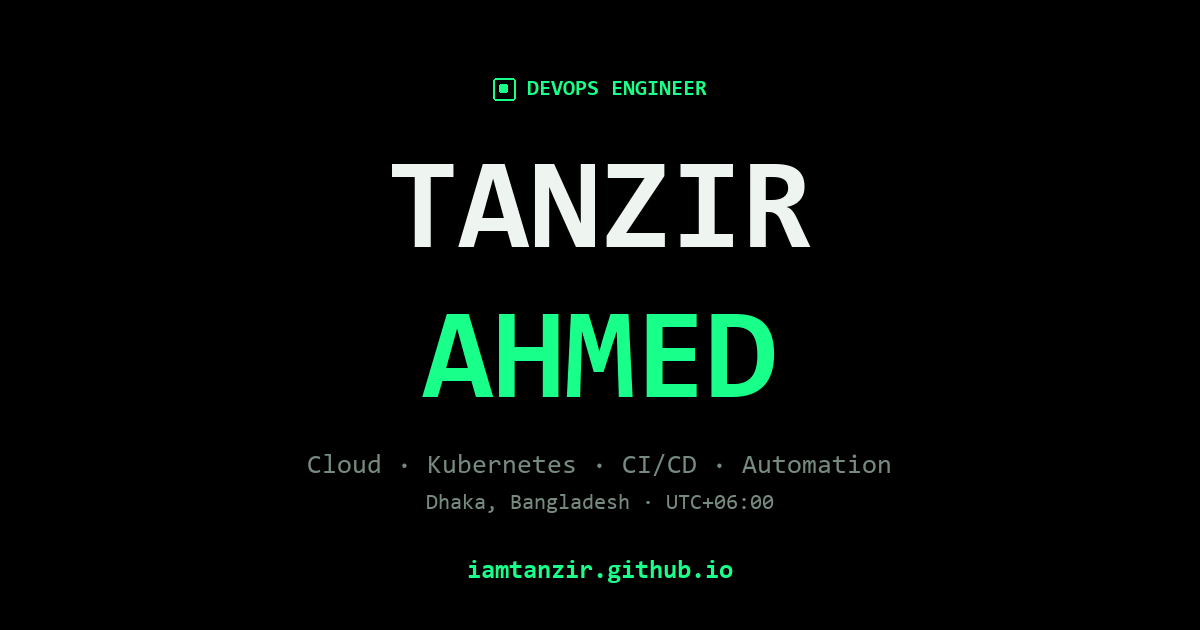
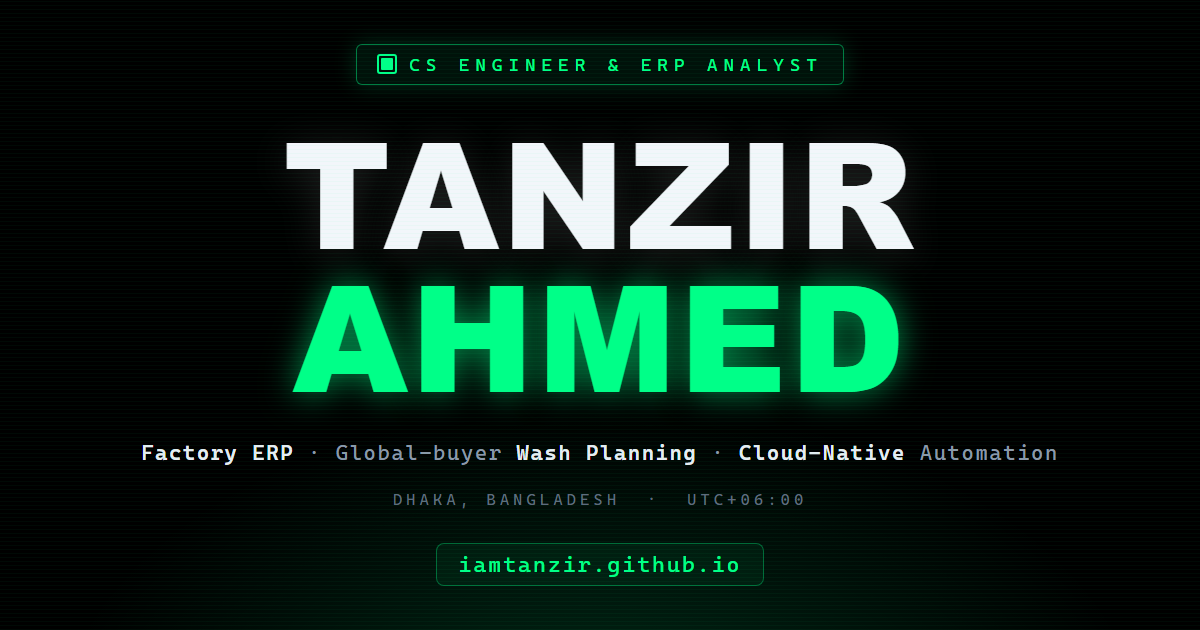
Fix share card: OG image said DEVOPS ENGINEER; regenerate as CS ENGINEER & ERP ANALYST with ERP/wash-planning tagline, cache-bust v=20261113, backup old og.png

diff --git a/index.html b/index.html
@@ -16,8 +16,8 @@
 <meta property="og:url" content="https://iamtanzir.github.io/">
 <meta property="og:title" content="AKM Tanzir Ahmed — CS Engineer &amp; ERP Analyst">
 <meta property="og:description" content="CS Engineer, ERP Analyst & Planner — factory ERP implementation, global-buyer wash planning, cloud and automation. Dhaka, Bangladesh.">
-<meta property="og:image" content="https://iamtanzir.github.io/og.png">
-<meta property="og:image:secure_url" content="https://iamtanzir.github.io/og.png">
+<meta property="og:image" content="https://iamtanzir.github.io/og.png?v=20261113">
+<meta property="og:image:secure_url" content="https://iamtanzir.github.io/og.png?v=20261113">
 <meta property="og:image:type" content="image/png">
 <meta property="og:image:width" content="1200">
 <meta property="og:image:height" content="630">
@@ -29,7 +29,7 @@
 <meta name="twitter:card" content="summary_large_image">
 <meta name="twitter:title" content="AKM Tanzir Ahmed — CS Engineer &amp; ERP Analyst">
 <meta name="twitter:description" content="CS Engineer, ERP Analyst & Planner — factory ERP implementation, global-buyer wash planning, cloud and automation. Dhaka, Bangladesh.">
-<meta name="twitter:image" content="https://iamtanzir.github.io/og.png">
+<meta name="twitter:image" content="https://iamtanzir.github.io/og.png?v=20261113">
 <meta name="twitter:image:alt" content="AKM Tanzir Ahmed — CS Engineer &amp; ERP Analyst">
 <meta name="twitter:creator" content="@tanzir786">
 <meta name="twitter:site" content="@tanzir786">
